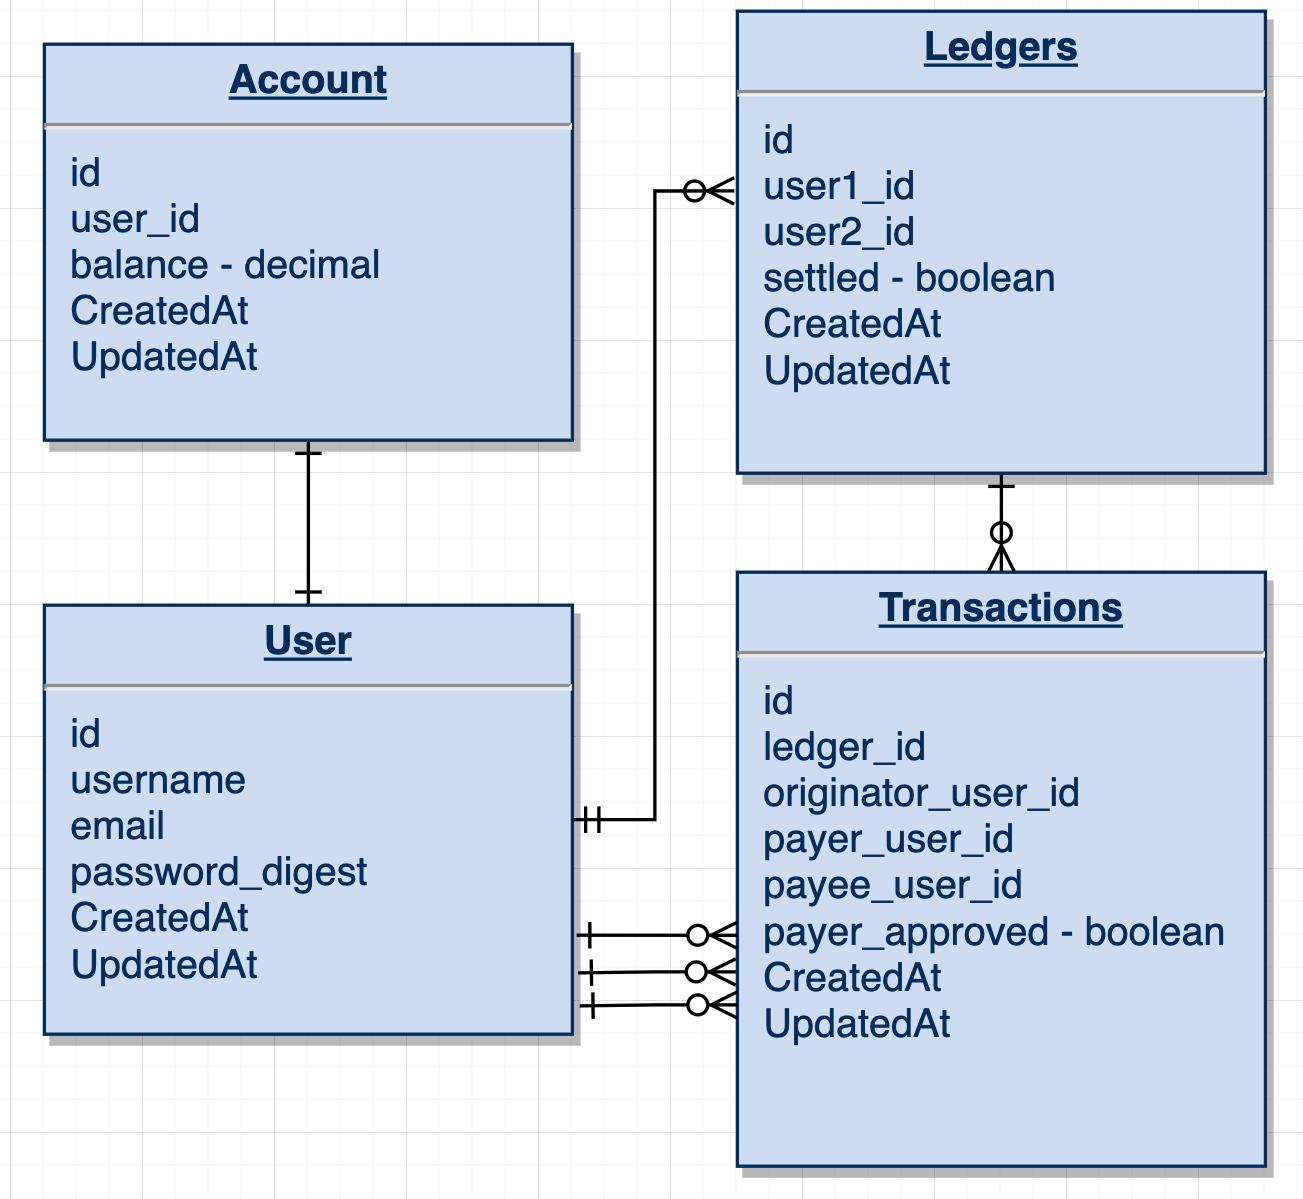
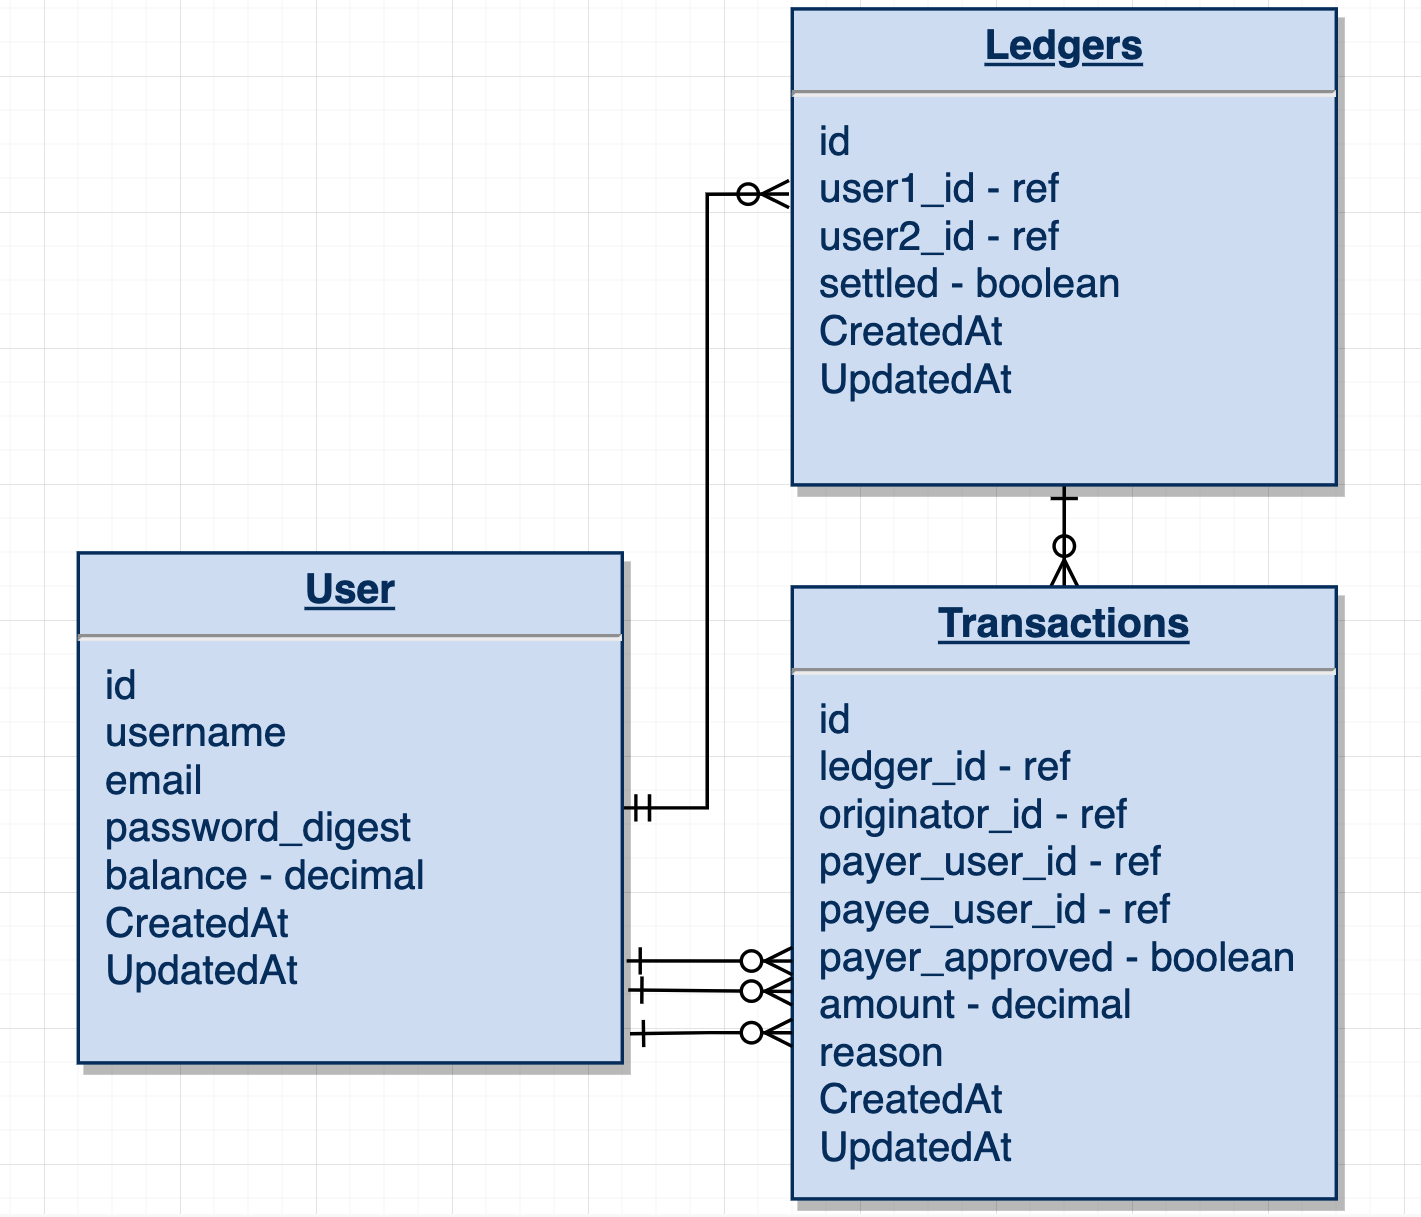
backend mostly working for now

diff --git a/db/schema.rb b/db/schema.rb
@@ -10,22 +10,34 @@
 #
 # It's strongly recommended that you check this file into your version control system.
 
-ActiveRecord::Schema.define(version: 2021_11_02_175700) do
+ActiveRecord::Schema.define(version: 2021_11_03_161308) do
 
   # These are extensions that must be enabled in order to support this database
   enable_extension "plpgsql"
 
-  create_table "accounts", force: :cascade do |t|
-    t.bigint "user_id", null: false
-    t.decimal "balance"
+  create_table "ledgers", force: :cascade do |t|
+    t.boolean "settled"
     t.datetime "created_at", precision: 6, null: false
     t.datetime "updated_at", precision: 6, null: false
-    t.index ["user_id"], name: "index_accounts_on_user_id"
+    t.bigint "user1_id"
+    t.bigint "user2_id"
+    t.index ["user1_id"], name: "index_ledgers_on_user1_id"
+    t.index ["user2_id"], name: "index_ledgers_on_user2_id"
   end
 
   create_table "transactions", force: :cascade do |t|
     t.datetime "created_at", precision: 6, null: false
     t.datetime "updated_at", precision: 6, null: false
+    t.decimal "amount"
+    t.string "reason"
+    t.bigint "originator_id"
+    t.bigint "payer_id"
+    t.bigint "payee_id"
+    t.bigint "ledger_id", null: false
+    t.index ["ledger_id"], name: "index_transactions_on_ledger_id"
+    t.index ["originator_id"], name: "index_transactions_on_originator_id"
+    t.index ["payee_id"], name: "index_transactions_on_payee_id"
+    t.index ["payer_id"], name: "index_transactions_on_payer_id"
   end
 
   create_table "users", force: :cascade do |t|
@@ -34,7 +46,13 @@ ActiveRecord::Schema.define(version: 2021_11_02_175700) do
     t.string "password_digest"
     t.datetime "created_at", precision: 6, null: false
     t.datetime "updated_at", precision: 6, null: false
+    t.decimal "balance"
   end
 
-  add_foreign_key "accounts", "users"
+  add_foreign_key "ledgers", "users", column: "user1_id"
+  add_foreign_key "ledgers", "users", column: "user2_id"
+  add_foreign_key "transactions", "ledgers"
+  add_foreign_key "transactions", "users", column: "originator_id"
+  add_foreign_key "transactions", "users", column: "payee_id"
+  add_foreign_key "transactions", "users", column: "payer_id"
 end

diff --git a/db/seeds.rb b/db/seeds.rb
@@ -7,16 +7,22 @@
 #   Character.create(name: 'Luke', movie: movies.first)
 
 User.destroy_all
-Account.destroy_all
+Ledger.destroy_all
+Transaction.destroy_all
 
 @user1 = User.create!(username: 'test1', password: '123456', email: 'test1@email.com')
 @user2 = User.create!(username: 'test2', password: '123456', email: 'test2@email.com')
 @user3 = User.create!(username: 'test3', password: '123456', email: 'test3@email.com')
-Account.create!(user_id: @user1.id, balance: 0.00)
-Account.create!(user_id: @user2.id, balance: 0.00)
-Account.create!(user_id: @user3.id, balance: 0.00)
 puts "#{User.count} users created"
-puts "#{Account.count} accts created"
+
+@ledger1 = Ledger.create!(user1: @user1, user2: @user2, settled: false)
+@ledger2 = Ledger.create!(user1: @user1, user2: @user3, settled: false)
+puts "#{Ledger.count} ledgers created"
+
+@txn1 = Transaction.create!(ledger: @ledger1, originator: @user1, payer: @user1, payee: @user2, amount: 11.11, reason: "test txn 1")
+@txn2 = Transaction.create!(ledger: @ledger1, originator: @user1, payer: @user1, payee: @user2, amount: 22.22, reason: "test txn 2")
+@txn3 = Transaction.create!(ledger: @ledger2, originator: @user1, payer: @user1, payee: @user3, amount: 33.33, reason: "test txn 3")
+puts "#{Transaction.count} txns created"
 
 
 

diff --git a/app/controllers/ledgers_controller.rb b/app/controllers/ledgers_controller.rb
@@ -1,0 +1,51 @@
+class LedgersController < ApplicationController
+  before_action :set_ledger, only: [:show, :update, :destroy]
+
+  # GET /ledgers
+  def index
+    @ledgers = Ledger.all
+
+    render json: @ledgers
+  end
+
+  # GET /ledgers/1
+  def show
+    render json: @ledger
+  end
+
+  # POST /ledgers
+  def create
+    @ledger = Ledger.new(ledger_params)
+
+    if @ledger.save
+      render json: @ledger, status: :created, location: @ledger
+    else
+      render json: @ledger.errors, status: :unprocessable_entity
+    end
+  end
+
+  # PATCH/PUT /ledgers/1
+  def update
+    if @ledger.update(ledger_params)
+      render json: @ledger
+    else
+      render json: @ledger.errors, status: :unprocessable_entity
+    end
+  end
+
+  # DELETE /ledgers/1
+  def destroy
+    @ledger.destroy
+  end
+
+  private
+    # Use callbacks to share common setup or constraints between actions.
+    def set_ledger
+      @ledger = Ledger.find(params[:id])
+    end
+
+    # Only allow a list of trusted parameters through.
+    def ledger_params
+      params.require(:ledger).permit(:user1_id, :user2_id, :settled)
+    end
+end

diff --git a/db/migrate/20211103133613_remove_refs_from_users.rb b/db/migrate/20211103133613_remove_refs_from_users.rb
@@ -1,0 +1,10 @@
+class RemoveRefsFromUsers < ActiveRecord::Migration[6.1]
+  def change
+    remove_reference :transactions, :originator_id, null: false, foreign_key: {to_table: :users}
+    remove_reference :transactions, :payer_id, null: false, foreign_key: {to_table: :users}
+    remove_reference :transactions, :payee_id, null: false, foreign_key: {to_table: :users}
+    add_reference :transactions, :originator, foreign_key: {to_table: :users}
+    add_reference :transactions, :payer, foreign_key: {to_table: :users}
+    add_reference :transactions, :payee, foreign_key: {to_table: :users}
+  end
+end

diff --git a/app/models/transaction.rb b/app/models/transaction.rb
@@ -2,6 +2,8 @@ class Transaction < ApplicationRecord
   belongs_to :originator, class_name: 'User', foreign_key: 'originator_id'
   belongs_to :payer, class_name: 'User', foreign_key: 'payer_id'
   belongs_to :payee, class_name: 'User', foreign_key: 'payee_id'
+  belongs_to :ledger, foreign_key: "ledger_id"
 
-  
+  validates :amount, presence: true, numericality: {greater_than: 0}
+  validates :reason, presence: true, length: {within: 5..255, message: "Reason should be 5 to 255 characters long"}
 end

diff --git a/db/migrate/20211102205019_add_columns_to_transactions.rb b/db/migrate/20211102205019_add_columns_to_transactions.rb
@@ -1,6 +1,9 @@
 class AddColumnsToTransactions < ActiveRecord::Migration[6.1]
   def change
-    add_column :transactions :originator_id 
-    
+    add_reference :transactions, :originator_id, foreign_key: {to_table: :users}
+    add_reference :transactions, :payer_id, foreign_key: {to_table: :users}
+    add_reference :transactions, :payee_id, foreign_key: {to_table: :users}
+    add_column :transactions, :amount, :decimal
+    add_column :transactions, :reason, :string
   end
 end

diff --git a/app/models/user.rb b/app/models/user.rb
@@ -1,10 +1,10 @@
 class User < ApplicationRecord
   has_secure_password
-  has_one :account
   
   has_many :originator_transactions, :foreign_key => 'originator_id'
   has_many :payer_transactions, :foreign_key => 'payer_id'
   has_many :payee_transactions, :foreign_key => 'payee_id'
+  has_many :ledgers
 
   validates :username, presence: true, uniqueness: true
   validates :email, presence: true, uniqueness: true

diff --git a/db/migrate/20211103161308_add_user_refs_to_ledgers.rb b/db/migrate/20211103161308_add_user_refs_to_ledgers.rb
@@ -1,0 +1,9 @@
+class AddUserRefsToLedgers < ActiveRecord::Migration[6.1]
+  def change
+    remove_reference :ledgers, :user1_id, null: false, foreign_key: {to_table: :users}
+    remove_reference :ledgers, :user2_id, null: false, foreign_key: {to_table: :users}
+    add_reference :ledgers, :user1, foreign_key: {to_table: :users}
+    add_reference :ledgers, :user2, foreign_key: {to_table: :users}
+
+  end
+end

diff --git a/config/routes.rb b/config/routes.rb
@@ -1,10 +1,9 @@
 Rails.application.routes.draw do
   resources :transactions
+  resources :ledgers
+  resources :users, only: :create
 
   post '/auth/login', to: 'authentications#login'
   get '/auth/verify', to: 'authentications#verify'
 
-  resources :users, only: :create
-
-  # For details on the DSL available within this file, see https://guides.rubyonrails.org/routing.html
 end

diff --git a/app/controllers/transactions_controller.rb b/app/controllers/transactions_controller.rb
@@ -46,6 +46,6 @@ class TransactionsController < ApplicationController
 
     # Only allow a list of trusted parameters through.
     def transaction_params
-      params.require(:transaction).permit(:originator_id, :payer_id, :payee_id, :amount)
+      params.require(:transaction).permit(:originator_id, :payer_id, :payee_id, :amount, :reason, :ledger_id)
     end
 end

diff --git a/db/migrate/20211103153119_remove_refs_from_transactions.rb b/db/migrate/20211103153119_remove_refs_from_transactions.rb
@@ -1,0 +1,6 @@
+class RemoveRefsFromTransactions < ActiveRecord::Migration[6.1]
+  def change
+    remove_reference :transactions, :user1, null: false, foreign_key: {to_table: :users}
+    remove_reference :transactions, :user2, null: false, foreign_key: {to_table: :users}
+  end
+end

diff --git a/db/migrate/20211103150920_add_references_to_ledgers.rb b/db/migrate/20211103150920_add_references_to_ledgers.rb
@@ -1,0 +1,6 @@
+class AddReferencesToLedgers < ActiveRecord::Migration[6.1]
+  def change
+    add_reference :transactions, :user1, foreign_key: {to_table: :users}
+    add_reference :transactions, :user2, foreign_key: {to_table: :users}
+  end
+end
